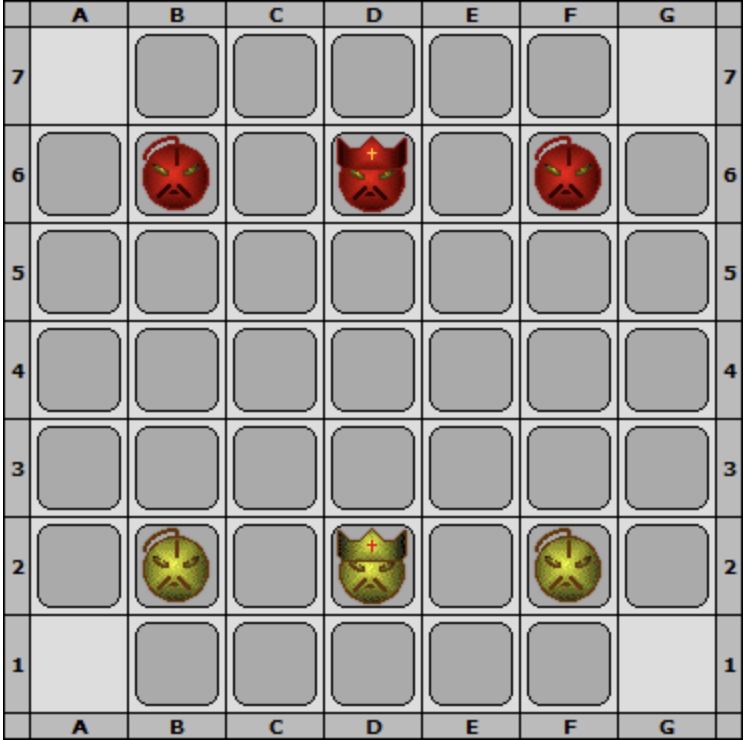
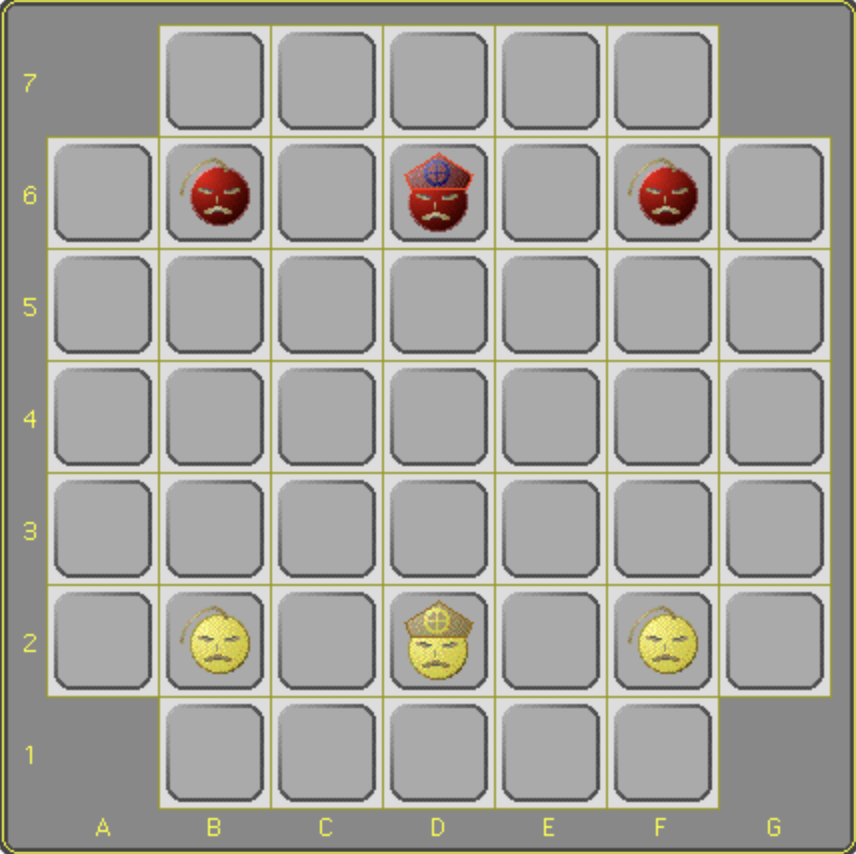
Update README.md

diff --git a/README.md b/README.md
@@ -16,14 +16,31 @@ Para instalar e correr o jogo Shakti é necessário descarregar o ficheiro <b>PF
 
 <p justify="center">
 "Shakti" é um jogo de estratégia abstrato, projetado para dois jogadores, que foi criado em 1982 por Christian Freeling[1]. Muitas vezes sendo descrito como uma variante do Xadrez, o jogo é jogado num tabuleiro quadrado de dimensões 7x7, onde cada célula do tabuleiro, exceto as das extremidades, possui um azulejo e cada jogador possui um rei e dois guerreiros[1],[2].
-O jogo inicia-se com as peças de cada jogador alianhadas (como mostra a figura abaixo), sendo o jogador detentor das peças brancas a fazer a primeira jogada. Ganha o jogo o jogador que conseguir dar checkmate ao Rei do oponente, ou seja, colocar as suas peças no tabuleiro de tal forma que o Rei do seu oponente, independentemente da célula para o qual se mova, acabe sempre capturado[1].
+O jogo inicia-se com as peças de cada jogador alianhadas, sendo o jogador detentor das peças brancas a fazer a primeira jogada. Ganha o jogo o jogador que conseguir dar checkmate ao Rei do oponente, ou seja, colocar as suas peças no tabuleiro de tal forma que o Rei do seu oponente, independentemente da célula para o qual se mova, acabe sempre capturado[1]. É possível verificar o início do jogo e um exemplo de fim do jogo nas imagens abaixo anexadas.
 </p>
 
 <p align="center" justify="center">
   <img width="300" alt="init_state" src="https://github.com/GonPedro/PFL_Proj/blob/5f59b3c778d40f1b5bdbc177ad6fd79cc903702e/Images/init_state.png"/>
 </p>
 <p align="center">
-  <b><i>Img 1. Shakti Initial State</i></b>
+  <b><i>Shakti Initial State</i></b>
+</p>
+
+<p align="center" justify="center">
+  <img width="300" alt="init_state" src="https://github.com/GonPedro/PFL_Proj/blob/5f59b3c778d40f1b5bdbc177ad6fd79cc903702e/Images/init_state.png"/>
+</p>
+<p align="center">
+  <b><i>Shakti End State</i></b>
+</p>
+
+<p justify="center">
+Porém existem algumas particularidades no movimento das diferentes peças:
+
+<b>Guerreiro</b>
+-
+
+<b>Rei</b>
+-
 </p>
 
 ## Lógica do Jogo
